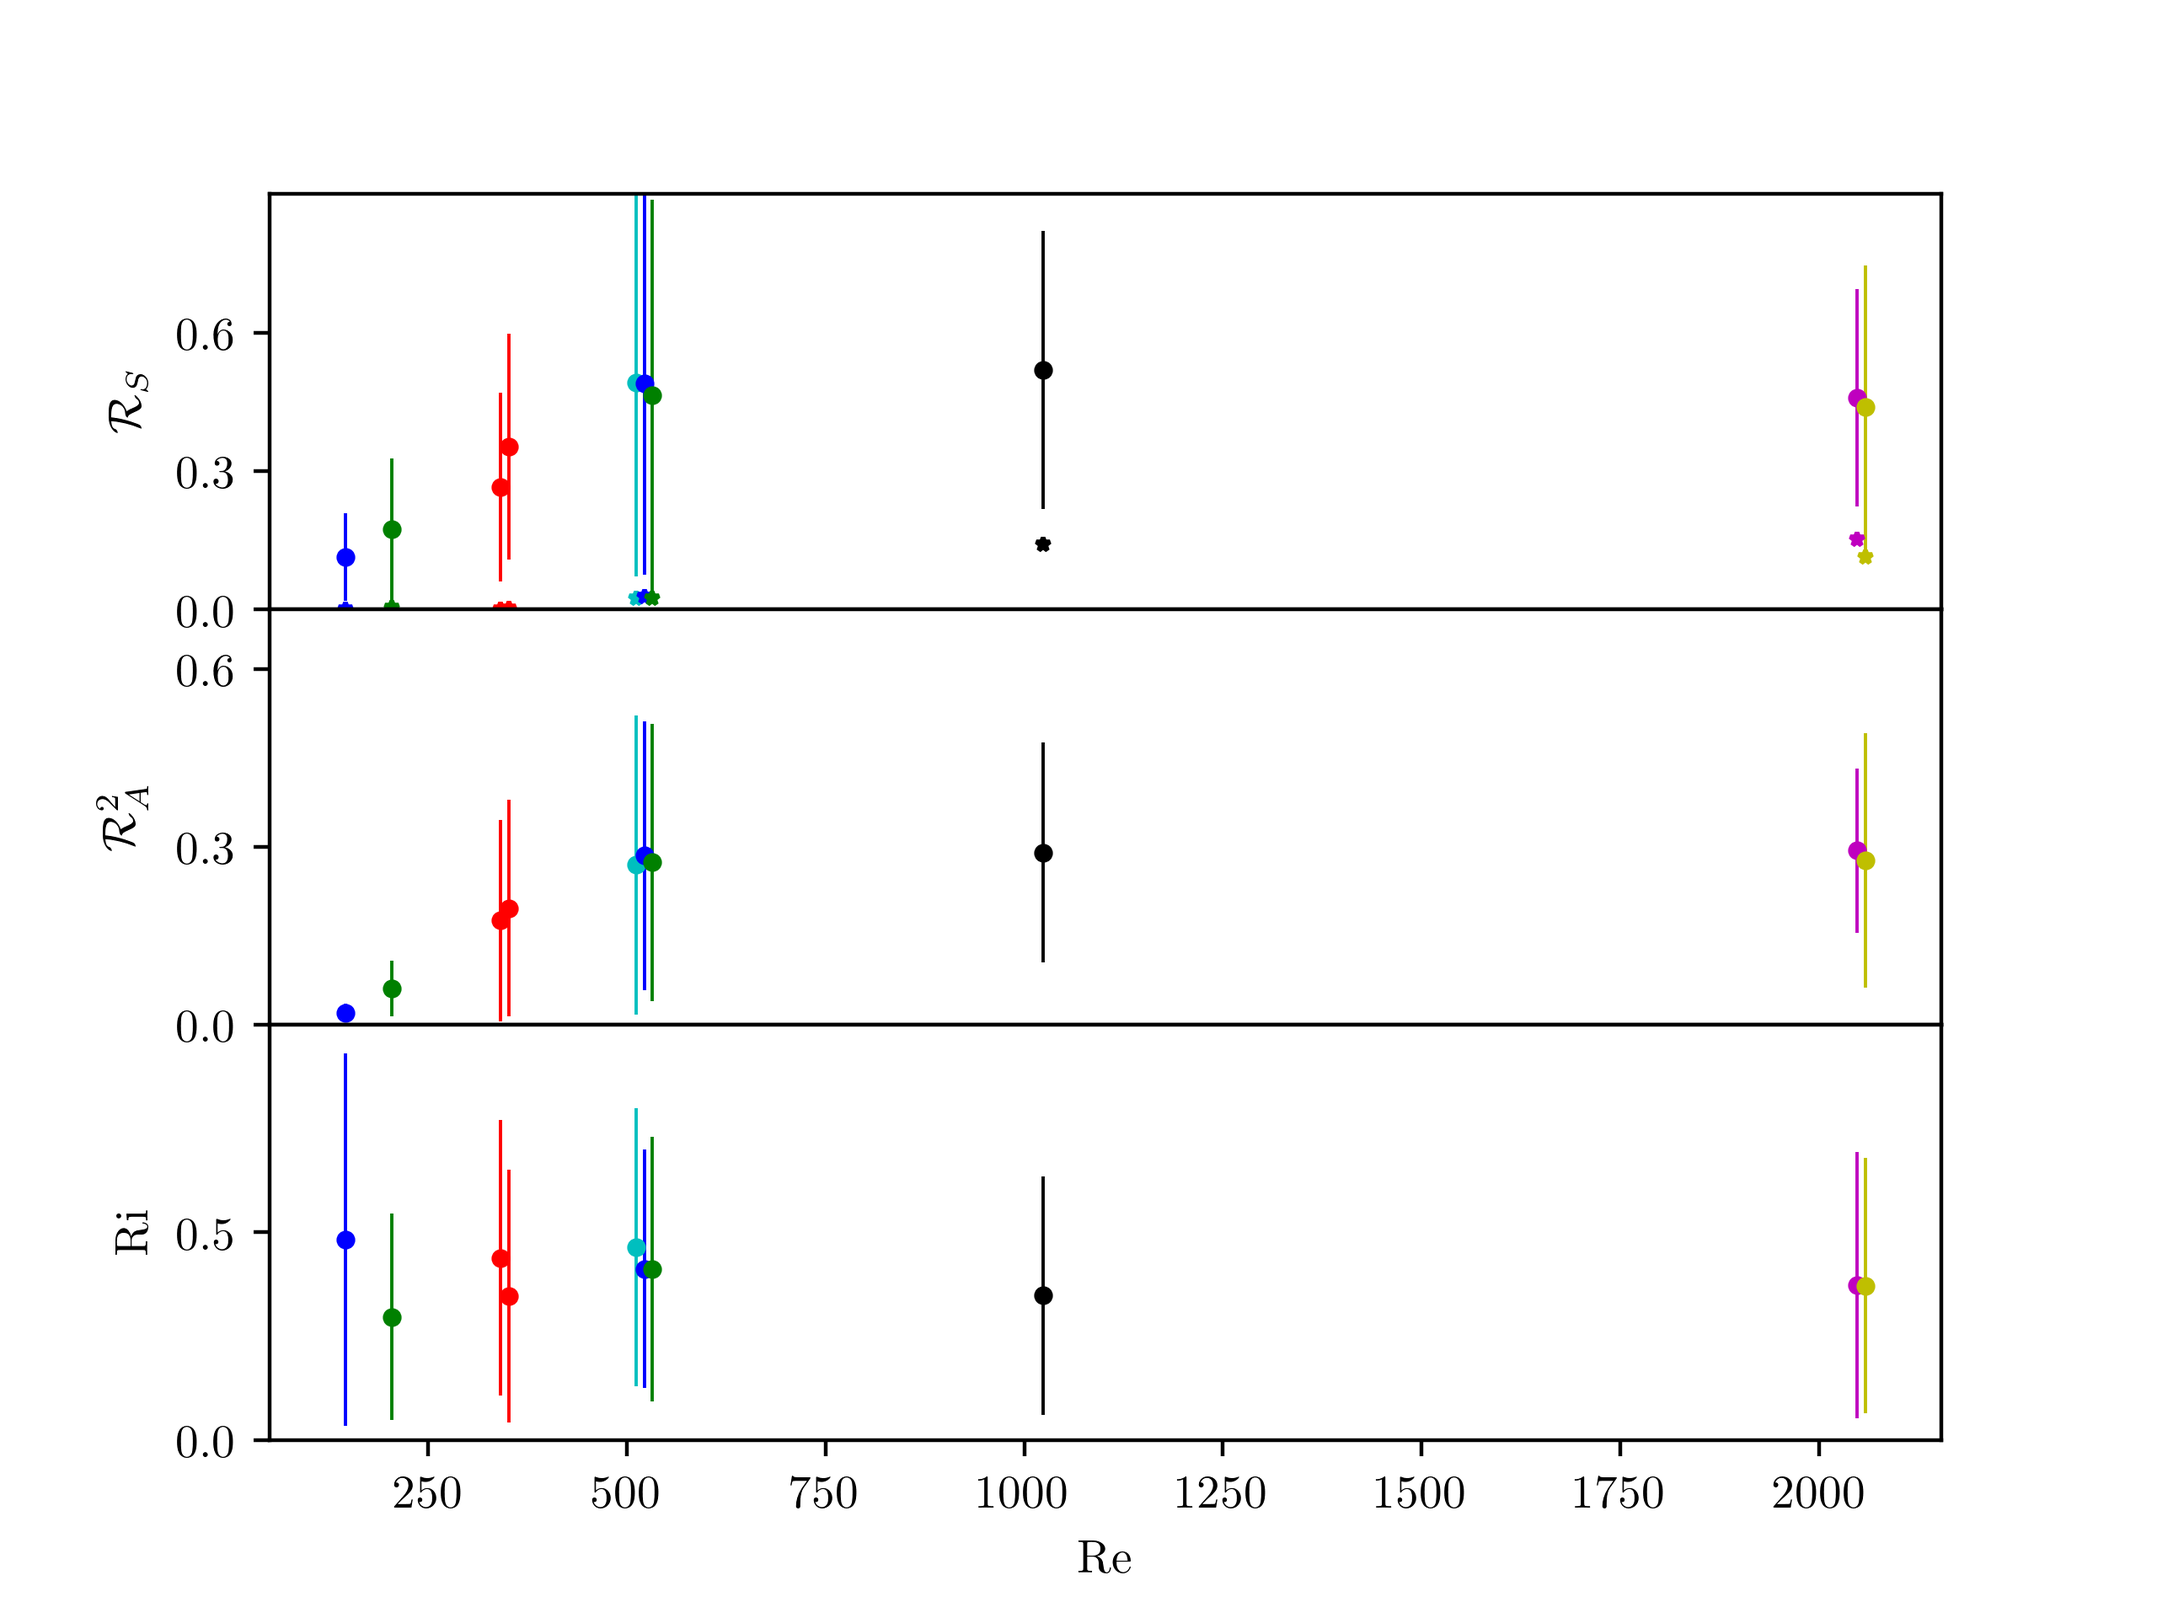
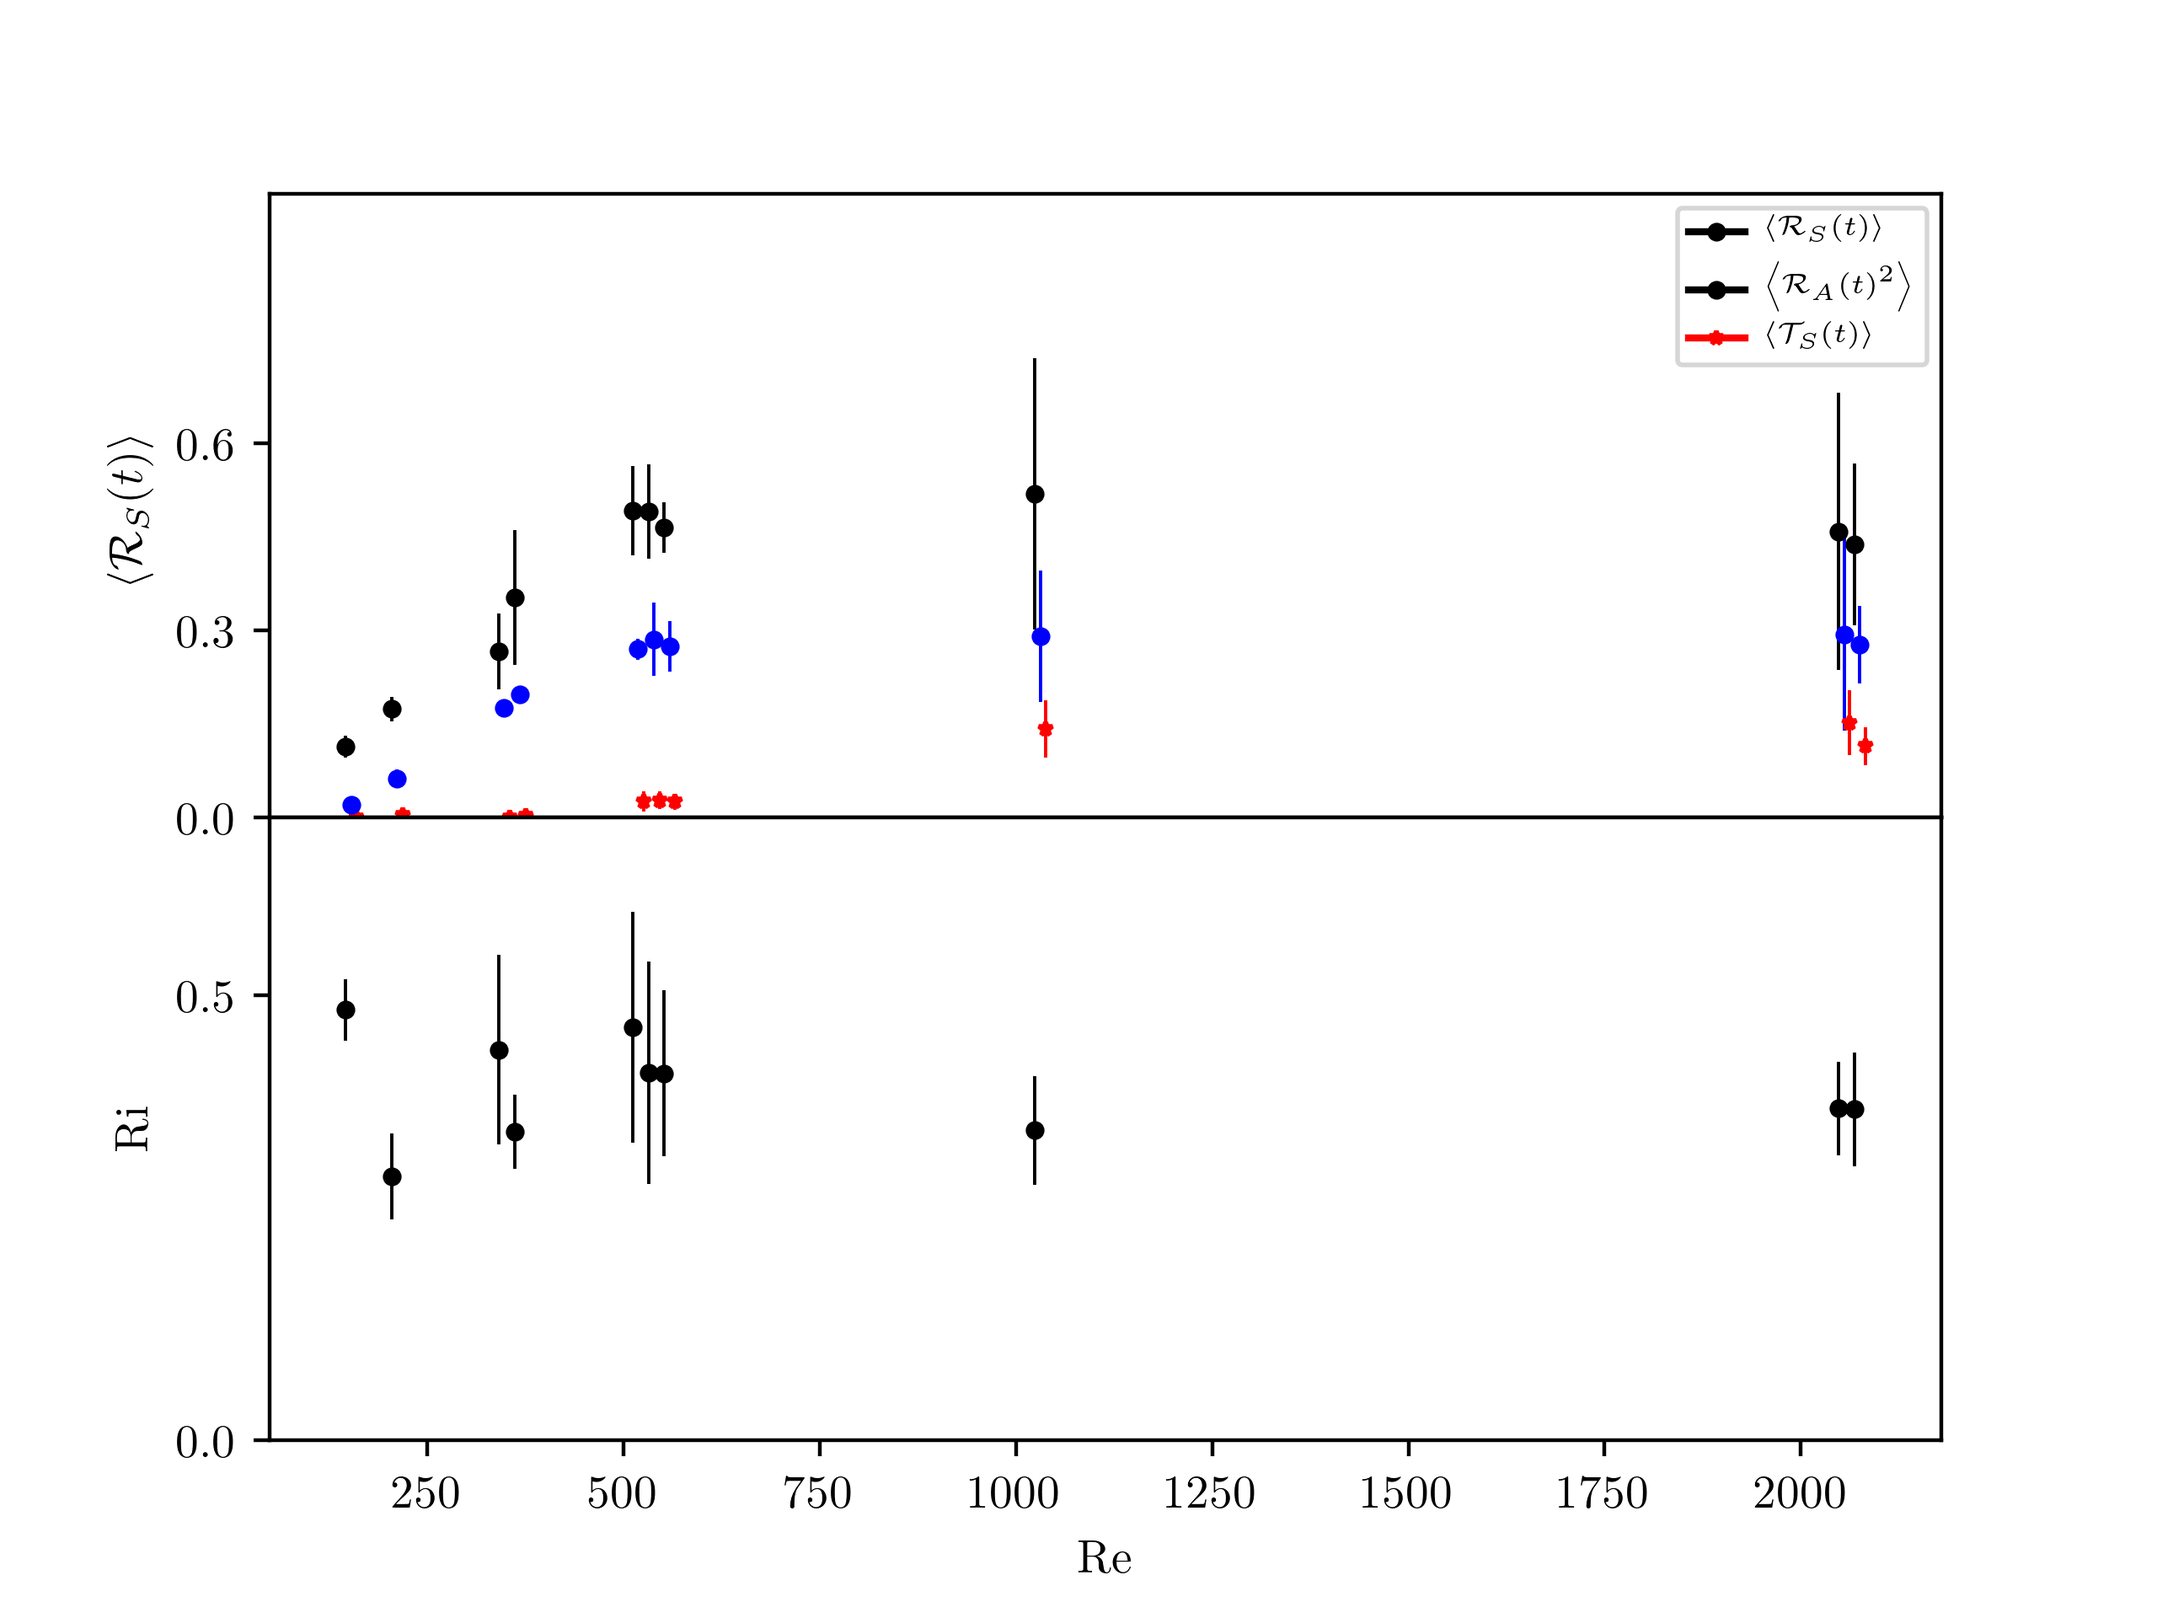
small time averaging for ffts, updated data

diff --git a/sims/2d_4_fourier/strat_helper.py b/sims/2d_4_fourier/strat_helper.py
@@ -80,6 +80,15 @@ def smooth(f):
                                [f[-1]] * (len(kernel) // 2)))
     return np.convolve(f_padded, kernel, mode='valid')
 
+def smooth3d(field):
+    ''' ax0 is time, smooth along time axis and iterate over others '''
+    # dumbest implementation, w/e, postprocessing is cheap
+    smoothed = np.zeros_like(field)
+    for i in range(np.shape(field)[1]):
+        for j in range(np.shape(field)[2]):
+            smoothed[:, i, j] = smooth(field[:, i, j])
+    return smoothed
+
 def get_uz_f_ratio(params):
     ''' get uz(z = z0) / F '''
     return (np.sqrt(2 * np.pi) * params['S'] * params['g'] *
@@ -490,7 +499,7 @@ def load(name, params, dyn_vars, stride, start=0):
 
     state_vars['ux_z'] = np.gradient(state_vars['ux'], axis=2)
 
-    state_vars['S_{px}'] = RHO0 * np.exp(-z/ H) * (
+    state_vars['S'] = RHO0 * np.exp(-z/ H) * (
         (state_vars['ux'] * state_vars['uz']) +
         (NU * np.exp(state_vars['U']) * state_vars['ux_z']))
     return np.array(total_sim_times), domain, state_vars
@@ -542,11 +551,11 @@ def plot(name, params, stride=STRIDE):
         {
             'save_fmt_str': 's_%03i.png',
             'slice_vars': ['uz', 'ux_z'],
-            'mean_vars': ['S_{px}', 'ux'],
+            'mean_vars': ['S', 'ux'],
         },
         {
             'save_fmt_str': 'm_%03i.png',
-            'plot_vars': ['uz', 'ux', 'W', 'S_{px}'],
+            'plot_vars': ['uz', 'ux', 'W', 'S'],
         },
     ]
 
@@ -561,7 +570,7 @@ def plot(name, params, stride=STRIDE):
     x2mesh, z2mesh = quad_mesh(x=np.arange(N_X // 2), y=z0)
 
     # preprocess
-    for var in dyn_vars + ['S_{px}']:
+    for var in dyn_vars + ['S']:
         state_vars[var + mean_suffix] = horiz_mean(state_vars[var], N_X)
 
     for var in dyn_vars:
@@ -594,7 +603,7 @@ def plot(name, params, stride=STRIDE):
                                state_vars['uz%s' % mean_suffix][t_idx])
             ux_mean = np.outer(np.ones(N_X),
                                state_vars['ux%s' % mean_suffix][t_idx])
-            S_px_mean = state_vars['S_{px}%s' % mean_suffix]
+            S_px_mean = state_vars['S%s' % mean_suffix]
             z_top = get_front_idx(S_px_mean,
                                   t_idx,
                                   z0,
@@ -696,7 +705,7 @@ def plot(name, params, stride=STRIDE):
                         ux_est * np.exp((z0 - Z0) / (2 * H)), z[0], 'g',
                         linewidth=0.5)
 
-                if var == 'S_{px}%s' % mean_suffix:
+                if var == 'S%s' % mean_suffix:
                     k_damp = get_k_damp(params)
                     p = axes.plot(
                         uz_est**2 / 2
@@ -825,7 +834,7 @@ def write_front(name, params, stride=1):
     S_bot_ffts = []
     Spx11 = []
 
-    S_px = horiz_mean(state_vars['S_{px}'], N_X)
+    S_px = horiz_mean(state_vars['S'], N_X)
     u0 = horiz_mean(state_vars['ux'], N_X)
 
     uz_est = F * get_uz_f_ratio(params)
@@ -870,10 +879,12 @@ def write_front(name, params, stride=1):
 
         window_width = 2 * Z_TOP_MULT * np.pi / abs(KZ)
 
+        smoothed_S = smooth3d(state_vars['S'])
+
         z_bot_l = get_idx(z0[front_idx] - 2 * window_width, z0)
         z_bot_r = get_idx(z0[front_idx] - 1 * window_width, z0)
         area_bot = np.outer(np.ones_like(z[:, 0]), dz[z_bot_l: z_bot_r])
-        S_bot = state_vars['S_{px}'][t_idx, :, z_bot_l: z_bot_r]
+        S_bot = smoothed_S[t_idx, :, z_bot_l: z_bot_r]
         S_bot_fft = np.abs(np.fft.rfft(S_bot / flux_th, axis=0) / N_X)
         # by using only half of the fft, all non-DC bins are half as high as
         # they should be
@@ -886,7 +897,7 @@ def write_front(name, params, stride=1):
         z_top_r = get_idx(z0[front_idx] + 2 * window_width, z0)
         z_top_l = get_idx(z0[front_idx] + 1 * window_width, z0)
         area_top = np.outer(np.ones_like(z[:, 0]), dz[z_top_l: z_top_r])
-        S_top = state_vars['S_{px}'][t_idx, :, z_top_l: z_top_r]
+        S_top = smoothed_S[t_idx, :, z_top_l: z_top_r]
         S_top_fft = np.abs(np.fft.rfft(S_top / flux_th, axis=0) / N_X)
         S_top_fft[1: ] *= 2
         S_top_ffts.append(np.sum(S_top_fft * area_top, axis=1) /
@@ -1000,7 +1011,7 @@ def plot_front(name, params):
         plt.legend(fontsize=6)
 
         plt.xlabel(r'$z(H)$')
-        plt.ylabel(r'$S_{px} / S_0$')
+        plt.ylabel(r'$S / S_0$')
         plt.savefig('%s/fluxes.png' % snapshots_dir, dpi=400)
         plt.close()
 
@@ -1055,32 +1066,33 @@ def plot_front(name, params):
             ax1.plot(z0_cut,
                      u0_avg / u_c,
                      '%s-' % color,
-                     linewidth=0.7,
+                     linewidth=0.5,
                      label=r't=%.1f$N^{-1}$' % sim_times[time])
-            # S_px sliced at time
-            # ax2.plot(z0_cut,
-            #          S_px[time, z_b_idx: ] / flux_th,
-            #          '%s:' % color,
-            #          linewidth=0.5)
+            # S_px sliced at time, just one for comparison
+            if time == times[len(times) // 2]:
+                ax2.plot(z0_cut,
+                         S_px[time, z_b_idx: ] / flux_th,
+                         '%s:' % color,
+                         linewidth=0.4)
             # S_px time-averaged
             ax2.plot(z0_cut,
                      S_px_avg / flux_th,
                      '%s-' % color,
-                     linewidth=0.7,
+                     linewidth=0.5,
                      label=r't=%.1f$N^{-1}$' % sim_times[time])
         # overlay analytical flux including viscous dissipation
-        ax2.plot(z0_cut,
-                 np.exp(-k_damp * 2 * (z0_cut - Z0)),
-                 linewidth=1.5,
-                 label=r'$\nu$-only')
+        # ax2.plot(z0_cut,
+        #          np.exp(-k_damp * 2 * (z0_cut - Z0)),
+        #          linewidth=1.5,
+        #          label=r'$\nu$-only')
         ax1.set_xlim(z_b, ZMAX)
         ax2.set_xlim(z_b, ZMAX)
-        ax1.set_ylim(-0.1, 1.25)
-        ax2.set_ylim(-0.1, 1.1)
+        ax1.set_ylim(-0.2, 1.25)
+        ax2.set_ylim(-0.2, 1.2)
         ax2.legend(fontsize=6)
 
         ax1.set_ylabel(r'$U_0 / c_{ph, x}$')
-        ax2.set_ylabel(r'$S_{px} / S_0$')
+        ax2.set_ylabel(r'$S / S_0$')
         ax2.set_xlabel(r'$z(H)$')
         plt.savefig('%s/fluxes.png' % snapshots_dir, dpi=400)
         plt.close()
@@ -1121,10 +1133,10 @@ def plot_front(name, params):
         ax1.plot(t,
                  smooth(-dSpx[start_idx: ] / flux_th),
                  '%s-' % PLT_COLORS[color_idx],
-                 label=r'$\Delta S_{px}(z_{c})$',
+                 label=r'$\Delta S(z_{c})$',
                  linewidth=0.7)
         color_idx += 1
-        ax1.set_ylabel(r'$S_{px} / S_{px, 0}$')
+        ax1.set_ylabel(r'$S / S_{px, 0}$')
         ax1.legend(fontsize=6, loc='lower right')
 
         # compare forecasts of front position using two predictors integrated
@@ -1133,7 +1145,7 @@ def plot_front(name, params):
         ax2.plot(t,
                  front_pos_intg_S,
                  '%s-' % PLT_COLORS[color_idx],
-                 label='Model (data $\Delta S_{px}(z_{c})$)',
+                 label='Model (data $\Delta S(z_{c})$)',
                  linewidth=0.7)
         color_idx += 1
         ax2.plot(t,
@@ -1216,7 +1228,7 @@ def plot_front(name, params):
                  'r:',
                  label='Transmitted',
                  linewidth=1.0)
-        ax2.set_ylabel(r'$S_{px} / S_0$')
+        ax2.set_ylabel(r'$S / S_0$')
         ax2.legend(fontsize=6, loc='lower left')
         plt.savefig('%s/f_amps.png' % snapshots_dir, dpi=400)
         plt.close()
@@ -1238,7 +1250,7 @@ def plot_front(name, params):
                      / abs(V_PZ)
 
         t_refl = np.linspace((t + prop_time)[0], (t - prop_time)[-1], len(t))
-        f, (ax1, ax2, ax3) = plt.subplots(3, 1, sharex=True)
+        f, (ax1, ax3) = plt.subplots(2, 1, sharex=True)
         f.subplots_adjust(hspace=0)
 
         absorbed_dS = my_interp(t, -(dSpx - S_aboves)[start_idx: ] / flux_th)
@@ -1260,17 +1272,17 @@ def plot_front(name, params):
 
         ax1.plot(t_refl, refl, 'r:', linewidth=0.7, label='Flux')
         ax1.plot(t_refl, refl_amp**2, 'g:', linewidth=0.7, label='Amp')
-        ax1.plot(t_refl, trans, 'k:', linewidth=0.7, label='Trans')
+        ax1.plot(t_refl, trans, 'k:', linewidth=0.7, label='-Trans')
 
         ax1.legend(fontsize=6, loc='upper right')
         ax1.set_ylabel(r'Reflectivity')
         ax1.set_xlabel(r'$t$')
         ax1.set_ylim([0, 0.5])
 
-        ax2.plot(t, abs(KZ) * width_med[start_idx: ], 'g', linewidth=0.7)
-        ax2.plot(t, abs(KZ) * width_min[start_idx: ], 'r:', linewidth=0.5)
-        ax2.set_ylim([0, 0.5])
-        ax2.set_ylabel(r"$|k_z \Delta z|$")
+        # ax2.plot(t, abs(KZ) * width_med[start_idx: ], 'g', linewidth=0.7)
+        # ax2.plot(t, abs(KZ) * width_min[start_idx: ], 'r:', linewidth=0.5)
+        # ax2.set_ylim([0, 0.5])
+        # ax2.set_ylabel(r"$|k_z \Delta z|$")
 
         ri_width = N**2 * width_med**2 / (0.7 * u_c)**2
         # ax3.plot(t,

diff --git a/sims/aggregate.py b/sims/aggregate.py
@@ -8,6 +8,7 @@ matplotlib.use('Agg')
 import matplotlib.pyplot as plt
 plt.rc('text', usetex=True)
 plt.rc('font', family='serif')
+import matplotlib.lines as mlines
 
 DATA = [
     (0.70, ((0.1129, 0.0950, 0.1267), (0.1416, 0.1220, 0.1560), (0.0001, 0.0000, 0.0006), (0.4834, 0.4486, 0.5716))),
@@ -26,41 +27,51 @@ DATA = [
 ]
 
 if __name__ == '__main__':
-    f, (ax1, ax2, ax3) = plt.subplots(3, 1, sharex=True)
+    f, (ax1, ax3) = plt.subplots(2, 1, sharex=True)
     f.subplots_adjust(hspace=0)
     offsets = defaultdict(float)
 
     msize=3
     lwidth=0.7
 
-    colors = ['b', 'g', 'r', 'c', 'm', 'y', 'k'] * 5
-    for color, (re_inv, ((r_med, r_min, r_max),
-                         (rA_med, rA_min, rA_max),
-                         (T_med, T_min, T_max),
-                         (w_med, w_min, w_max))) in zip(colors, DATA):
+    # colors = ['b', 'g', 'r', 'c', 'm', 'y', 'k'] * 5
+    for re_inv, ((r_med, r_min, r_max),
+                 (rA_med, rA_min, rA_max),
+                 (T_med, T_min, T_max),
+                 (w_med, w_min, w_max)) in DATA:
         # Reynolds number for linear mode
         x = (1024 / 10) / re_inv + offsets[re_inv]
-        ax1.plot(x, r_med, '%so' % color, markersize=msize)
-        ax1.errorbar(x, r_med, np.array([[r_min, r_max]]),
-                     ecolor=color, linewidth=lwidth)
-        ax1.plot(x, T_med, '%s*' % color, markersize=msize)
-        ax2.plot(x, rA_med**2, '%so' % color, markersize=msize)
-        ax2.errorbar(x, rA_med**2, np.array([[rA_min**2, rA_max**2]]),
-                     ecolor=color, linewidth=lwidth)
-        ax3.plot(x, w_med, '%so' % color, markersize=msize)
-        ax3.errorbar(x, w_med, np.array([[w_min, w_max]]),
-                     ecolor=color, linewidth=lwidth)
+        ax1.plot(x, r_med, 'ko', markersize=msize)
+        ax1.errorbar(x, r_med, np.array([[r_med - r_min, r_max - r_med]]),
+                     ecolor='k', linewidth=lwidth)
+        ax1.plot(x + 14, T_med, 'r*', markersize=msize)
+        ax1.errorbar(x + 14, T_med, np.array([[T_med - T_min, T_max - T_med]]),
+                     ecolor='r', linewidth=lwidth)
+        ax1.plot(x + 7, rA_med**2, 'bo', markersize=msize)
+        ax1.errorbar(x + 7, rA_med**2, np.array([[rA_med**2 - rA_min**2,
+                                              rA_max**2 - rA_med**2]]),
+                     ecolor='b', linewidth=lwidth)
+        ax3.plot(x, w_med, 'ko', markersize=msize)
+        ax3.errorbar(x, w_med, np.array([[w_med - w_min, w_max - w_med]]),
+                     ecolor='k', linewidth=lwidth)
 
-        ax1.set_ylim([0, 0.9])
+        ax1.set_ylim([0, 1])
         ax1.set_yticks([0, 0.3, 0.6])
-        ax2.set_ylim([0, 0.7])
-        ax2.set_yticks([0, 0.3, 0.6])
-        ax3.set_ylim([0, 1.0])
+        ax3.set_ylim([0, 0.7])
         ax3.set_yticks([0, 0.5])
-        offsets[re_inv] += 10
+        offsets[re_inv] += 20
 
-    ax1.set_ylabel(r'$\mathcal{R}_S$')
-    ax2.set_ylabel(r'$\mathcal{R}_A^2$')
+    ln1 = mlines.Line2D([], [], color='k', marker='o', markersize=msize,
+                        label=r'$\left<\mathcal{R}_S(t)\right>$')
+    ln2 = mlines.Line2D([], [], color='k', marker='o', markersize=msize,
+                        label=r'$\left<\mathcal{R}_A(t)^2\right>$')
+    ln3 = mlines.Line2D([], [], color='r', marker='*', markersize=msize,
+                        label=r'$\left<\mathcal{T}_S(t)\right>$')
+    ax1.legend(handles=[ln1, ln2, ln3], fontsize=6)
+
+
+    ax1.set_ylabel(r'$\left<\mathcal{R}_S(t)\right>$')
+    # ax2.set_ylabel(r'$\left<\mathcal{R}_A^2(t)\right>$')
     ax3.set_ylabel('Ri')
     ax3.set_xlabel('Re')
     ax = plt.gca()

diff --git a/sims/2d_4_fourier/strat.py b/sims/2d_4_fourier/strat.py
@@ -81,12 +81,12 @@ if __name__ == '__main__':
                                'N_Z': 3072})),
         ('yubo_nu2_hres',
          get_params(overrides={'Re_inv': 0.2})),
-        ('yubo_nu2_width',
-         get_params(overrides={'Re_inv': 0.2,
-                               'N_X': 256,
-                               'NUM_SNAPSHOTS': 1500,
-                               'STRIDE': 2,
-                               'N_Z': 1024})),
+        # ('yubo_nu2_width',
+        #  get_params(overrides={'Re_inv': 0.2,
+        #                        'N_X': 256,
+        #                        'NUM_SNAPSHOTS': 1500,
+        #                        'STRIDE': 2,
+        #                        'N_Z': 1024})),
         ('yubo_nu3_width',
          get_params(overrides={'Re_inv': 0.3,
                                'N_X': 256,
